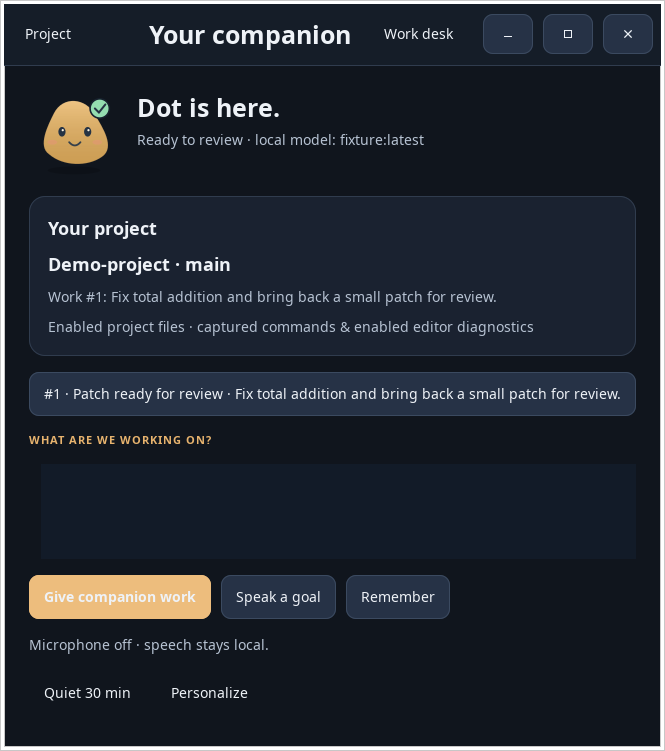
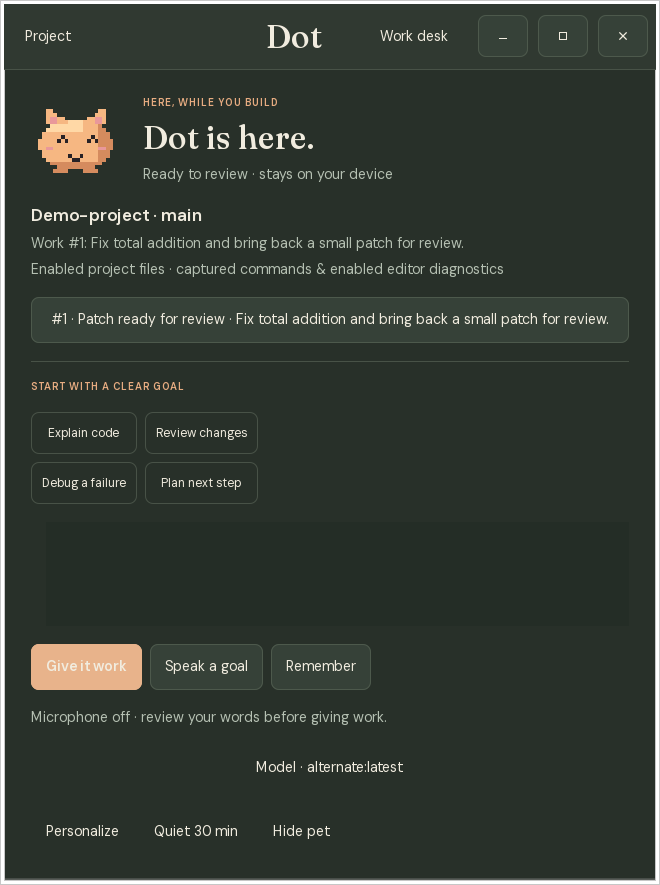
docs: publish v0.8 desktop preview assets

diff --git a/guide.html b/guide.html
@@ -4,15 +4,15 @@
 <meta name="description" content="Set up the Linux developer workflow preview: project presence, real error evidence, reviewed corrections, optional editor diagnostics and local voice.">
 <link rel="icon" href="./favicon.svg"><link rel="stylesheet" href="./fonts.css"><link rel="stylesheet" href="./style.css"></head>
 <body><a class="skip" href="#main">Skip to content</a><header class="nav wrap"><a class="brand" href="./">Dev Companion</a><nav aria-label="Main navigation"><a class="nav-cta" href="./">Back to the project ↗</a></nav></header>
-<main id="main" class="guide wrap"><p class="eyebrow">PREVIEW 0.7.1 · WORKFLOW GUIDE</p>
+<main id="main" class="guide wrap"><p class="eyebrow">PREVIEW 0.8.0 · WORKFLOW GUIDE</p>
 <h1>Your local companion,<br>close to the work.</h1>
 <p>An early Linux x86_64 workflow preview for existing Git projects. Each project, terminal session and editor workspace requires explicit enablement. A local model is needed for conversation and proposed corrections; the work desk and reminders work without inference. macOS validation is pending.</p>
 <h2 id="install">1. Verify and install the CLI</h2>
-<p>Download the archive and SHA256SUMS from the <a href="https://github.com/ashuujha/devcompanion-launch/releases/tag/v0.7.1">v0.7.1 release page</a>, then verify the downloaded archive and install:</p>
+<p>Download the archive and SHA256SUMS from the <a href="https://github.com/ashuujha/devcompanion-launch/releases/tag/v0.8.0">v0.8.0 release page</a>, then verify the downloaded archive and install:</p>
 <pre><code>sha256sum --check --ignore-missing SHA256SUMS
-tar -xzf devcompanion-0.7.1-linux-x86_64.tar.gz
+tar -xzf devcompanion-0.8.0-linux-x86_64.tar.gz
 mkdir -p "$HOME/.local/bin"
-install -m 755 devcompanion-0.7.1/devcompanion "$HOME/.local/bin/devcompanion"
+install -m 755 devcompanion-0.8.0/devcompanion "$HOME/.local/bin/devcompanion"
 export PATH="$HOME/.local/bin:$PATH"
 ln -s devcompanion "$HOME/.local/bin/dot"
 dot --version</code></pre>
@@ -20,10 +20,10 @@ dot --version</code></pre>
 <pre><code>dot update --check
 dot update
 # A previously downloaded official archive can be used offline:
-dot update --from-archive /path/devcompanion-0.7.1-linux-x86_64.tar.gz --checksum /path/SHA256SUMS</code></pre>
+dot update --from-archive /path/devcompanion-0.8.0-linux-x86_64.tar.gz --checksum /path/SHA256SUMS</code></pre>
 <p>The explicit updater uses GitHub HTTPS, verifies the published checksum and archive layout, and replaces the installed binary atomically. It preserves memory, models and the alias, retains one previous executable and restarts a matching managed presence unit. Open chats finish with their original binary; quit and reopen to load the update. Checksums are consistency checks, not independent release signatures.</p>
 <p>Version 0.4 and earlier lack this command. After verifying the 0.6 archive, bootstrap once:</p>
-<pre><code>install -m 755 devcompanion-0.7.1/devcompanion "$HOME/.local/bin/devcompanion.new"
+<pre><code>install -m 755 devcompanion-0.8.0/devcompanion "$HOME/.local/bin/devcompanion.new"
 mv "$HOME/.local/bin/devcompanion.new" "$HOME/.local/bin/devcompanion"
 dot --version
 # Only if login presence is installed:
@@ -42,7 +42,7 @@ dot setup --yes --presence --proactive --goal "Finish the current bug fix"
 dot shell</code></pre>
 <p><code>dot shell</code> is a normal interactive Bash session. It records only commands typed there while the shell is in this enabled Git project, with bounded combined output, actual exit status and before/after Git state. Type <code>exit</code> to leave it. Then use <code>dot desk</code> for open incidents and reminders, or <code>dot</code> for conversation. You can use <code>dot presence disable</code> for this project, <code>dot presence status</code> to inspect the service, and <code>dot presence uninstall</code> to remove the login unit. The service records events and reminders without inference by default. The optional proactive setting permits local model investigation. It never runs checks, captures a screen or listens to the microphone automatically.</p>
 <p>Inside chat, use <code>/models</code>, <code>/pets</code> and <code>/companion</code>. Commands beginning with <code>dot</code> belong in your normal terminal. Recognized terminal commands pasted into chat show guidance before model inference; exact read-only forms also show results. Commands with arguments do not run or change settings. Use the explicit slash action, another terminal or <code>/quit</code> first. <code>/companion-name NAME</code> renames your companion; <code>/name NAME</code> changes your own greeting.</p>
-<p>Preview with <code>dot pets</code> or <code>/pets</code>, then choose <code>/pet buddy</code>, <code>cloud</code>, <code>spark</code>, <code>sprout</code>, <code>owl</code>, <code>scholar</code>, <code>dot</code>, <code>cat</code>, <code>fox</code>, <code>robot</code> or <code>none</code>. <code>/pet-color auto|amber|blue|mint|rose|lavender|cocoa</code> saves its color separately from the CLI theme. Auto uses character defaults. Unicode terminals render filled pixel art with true, indexed or basic color; narrow/dumb/redirected terminals use compact text. NO_COLOR keeps a plain silhouette. Import a small UTF-8 pixel pet with <code>companion --avatar PATH</code>: up to eight lines, 48 columns and 2048 bytes. These are original terminal characters with task-state expressions, without 3D rendering or continuous animation. Response styles are concise, friendly and mentor. Name, style and up to ten global preferences guide the local model; a small model can still miss that guidance.</p>
+<p>Preview with <code>dot pets</code> or <code>/pets</code>, then choose <code>/pet buddy</code>, <code>cloud</code>, <code>spark</code>, <code>sprout</code>, <code>owl</code>, <code>scholar</code>, <code>dot</code>, <code>cat</code>, <code>fox</code>, <code>robot</code>, <code>frog</code>, <code>bunny</code>, <code>penguin</code>, <code>ghost</code>, <code>mushroom</code>, <code>orbit</code> or <code>none</code>. <code>/pet-color auto|amber|blue|mint|rose|lavender|cocoa</code> saves its color separately from the CLI theme. Auto uses character defaults. Unicode terminals render filled pixel art with true, indexed or basic color; narrow/dumb/redirected terminals use compact text. NO_COLOR keeps a plain silhouette. Import a small UTF-8 pixel pet with <code>companion --avatar PATH</code>: up to eight lines, 48 columns and 2048 bytes. These are original terminal characters with task-state expressions, without 3D rendering or continuous animation. Response styles are concise, friendly and mentor. Name, style and up to ten global preferences guide the local model; a small model can still miss that guidance.</p>
 <details class="pet-preview"><summary>See the terminal pet gallery</summary><img src="./pets-preview.png" alt="Rendered CLI fixture preview of buddy, cloud, spark, sprout, owl and scholar"><p>Rendered from a real terminal capture in a disposable fixture. Artwork is original.</p></details>
 <p><code>/model NAME</code> verifies a downloaded brain, switches the current conversation and saves it. <code>--model NAME</code> is a temporary override. There are no automatic downloads. Running tasks keep their selected model.</p>
 <p>Inside chat, <code>/incidents</code>, <code>/reminders</code> and <code>/desk</code> open the same work ledger. <code>/quiet 30</code> pauses desktop interruptions; <code>/assist</code> controls chat awareness. First use waits for your stated goal, conversation or new observed event before automatic model reasoning. Idle observation makes no model calls.</p>
@@ -58,11 +58,12 @@ dot desktop
 # Optional launcher and graphical login presence:
 dot desktop install --login</code></pre>
 <p>The native Linux desktop uses system Python 3, PyGObject, GTK 3 and an SVG loader. On Ubuntu/Debian, missing components can be installed with <code>sudo apt install python3-gi gir1.2-gtk-3.0 librsvg2-common</code>. The CLI works without the optional desktop dependencies.</p>
-<p>Click the dot to open the quick panel; drag to move; right-click for quiet, work desk or Quit desktop. Version 0.7.1 prefers X11/XWayland before loading GTK when available, preserving an explicit display preference. <code>dot desktop check</code> reports the selected backend. GNOME/XWayland honored keep-above in the maker test; placement and keep-above vary by window manager. The Project button selects a Git workspace and asks for first-use consent. Every goal, incident, task, patch and check shares the existing local ledger.</p>
+<p>Click the dot to open the quick panel; drag to move; right-click for quiet, work desk or Quit desktop. Version 0.8.0 prefers X11/XWayland before loading GTK when available, preserving an explicit display preference. <code>dot desktop check</code> reports the selected backend. GNOME/XWayland honored keep-above in the maker test; placement and keep-above vary by window manager. The Project button selects a Git workspace and asks for first-use consent. Every goal, incident, task, patch and check shares the existing local ledger.</p>
+<p>The quick panel and work desk share a goal draft. Explain code, Review changes, Debug a failure and Plan next step fill that draft without submitting it. The model selector shows downloaded local completion models and saves the choice for future work. Personalize offers pixel or soft artwork, color, name, response style and 16 original characters. Hide pet removes character artwork from the display while keeping project work accessible.</p>
 <p>Give companion work starts a persistent investigation. Close the panel while it works; open returned work to inspect original errors, recorded model interpretation, actual source ranges and their freshness, and the diff. Applying the current displayed patch and running a named check are separate approvals. The check dialog shows the exact argument array. Cancel, retry, revision and guarded rollback remain available. Continuity shows saved outcomes without generating a new recap. A stopped worker is shown as needing attention.</p>
-<p>After local voice setup, Speak a goal records one visible turn, stopping at a speech pause or at most 30 seconds. Click Finish recording sooner or Esc to cancel. Recognized words enter the composer for review; they never approve actions. Click again for the next turn. Read report aloud uses local speech. Character, color, name and response style share CLI preferences; imported text avatars remain a CLI feature.</p>
+<p>After local voice setup, Speak a goal records one visible turn. Hold Ctrl+Alt+Space in the focused companion window and release it to finish, or press Esc to cancel. Personalize can request a session-only global shortcut through the desktop permission dialog. Recognized words join the goal draft for review; they never approve actions. Read report aloud uses local speech. Physical microphone and shortcut comfort still need hands-on trials.</p>
 <p><code>dot desktop install</code> adds just the application launcher; <code>--login</code> also adds a login entry that starts only the dot, keeping the panel closed. Click the dot when needed. <code>dot desktop uninstall</code> removes only managed entries and retains data. Closing the desktop does not cancel accepted tasks. Quiet suppresses interruptions while work can continue. The separate presence service and permitted adapters provide background events.</p>
-<p>Source analysis requires actual reads; explicit related-test requests require a range covering the selected test anchor. Source navigation is bounded to supported project text, not complete repository understanding. Large sources up to 256 KiB can be read; edits retain the small-file scope. Explicit analysis-only work rejects patch proposals. The real Offline-GPT evaluation improved from a false claim of missing implementation to reading the actual resolver and related tests, but larger-project correctness is still unproven.</p>
+<p>Source analysis requires actual reads; explicit related-test requests require a range covering the selected test anchor. Source navigation is bounded to supported project text, not complete repository understanding. Large sources up to 256 KiB can be read; edits retain the small-file scope. Explicit analysis-only work rejects patch proposals. The real Offline-GPT evaluation read the actual resolver and related tests, but its local-model explanation still misstated test coverage and lacked usable citations. That result is marked unverified. Larger-project correctness remains unproven.</p>
 <p>The static candidate and bundled GTK interface passed a network-isolated maker journey after setup, including real local-model source analysis; external connectivity was unavailable. The graphical patch/check journey used a controlled model. These are technical evaluations, not independent daily-use trials.</p>
 <h2 id="proactive">Background investigation, with a separate opt-in</h2>
 <pre><code>dot proactive enable
@@ -113,7 +114,7 @@ dot route --category explain</code></pre>
 <p>Inspect each actual response before rating. Comparisons record total time, time to first text and actual prompt/output counts when Ollama provides them. Routing suggests the fastest latest response rated useful for the latest identical task, current code/context/settings and unchanged model digest. Add <code>--apply</code> to save the suggestion. It does not infer quality for other tasks or switch automatically. Loading, order and caches affect timings; these are local observations, not standardized benchmarks.</p>
 <p>CPU/auto, context, reply/task token caps, model retention and proactive cooldown are explicit controls. Lower limits can reduce context coverage and answer quality. The default requests ten-minute model retention; Ollama may unload under pressure. <code>models --task TEXT</code> gives model-generated advice; measured <code>route</code> has a separate evidence requirement.</p>
 <h2 id="editor">7. Optional VS Code diagnostics</h2>
-<p>Download <a href="https://github.com/ashuujha/devcompanion-launch/releases/download/v0.7.1/dot-developer-companion-0.1.0.vsix">dot-developer-companion-0.1.0.vsix</a>, then run <code>code --install-extension dot-developer-companion-0.1.0.vsix</code>. Open a trusted workspace in an initialized Git project and choose <strong>Dot: Enable Editor Diagnostics for Workspace</strong> from the VS Code command palette. Disable it there when finished. The extension sends bounded diagnostic messages, file paths, lines, severity and saved state; it sends no source buffers. VS Code must be open to provide diagnostics. A diagnostic can clear without a compiler or named check passing.</p>
+<p>Download <a href="https://github.com/ashuujha/devcompanion-launch/releases/download/v0.8.0/dot-developer-companion-0.1.0.vsix">dot-developer-companion-0.1.0.vsix</a>, then run <code>code --install-extension dot-developer-companion-0.1.0.vsix</code>. Open a trusted workspace in an initialized Git project and choose <strong>Dot: Enable Editor Diagnostics for Workspace</strong> from the VS Code command palette. Disable it there when finished. The extension sends bounded diagnostic messages, file paths, lines, severity and saved state; it sends no source buffers. VS Code must be open to provide diagnostics. A diagnostic can clear without a compiler or named check passing.</p>
 <h2 id="voice">8. Optional local voice</h2>
 <p><code>dot voice setup</code> installs local English Whisper/Piper once. <code>dot voice status</code> reports readiness. <code>/voice</code> or <code>dot voice chat</code> opens voice mode: the first turn records, then <strong>Enter</strong> records each follow-up. Enter also finishes a recording early. <strong>q + Enter</strong>, “exit voice”, “stop listening”, or <strong>Ctrl+C</strong> ends the session. <code>/voice once</code> or <code>dot voice ask --once</code> records one turn; <code>--audio question.wav</code> uses a file.</p>
 <p><code>dot voice chat --continuous</code> or <code>/voice continuous</code> listens again after replies until exit. The microphone pauses during transcription, reasoning and playback. A simple energy gate skips silence; noisy rooms still need care. It is turn-based speech, with no wake word or interruption during playback. Windows default to 12 seconds (maximum 30); recording stays off outside explicitly opened voice mode. Tests cover two turns, silence and microphone-child cancellation using controlled audio tools. Physical microphone selection, room noise and playback comfort still need hands-on validation.</p>
@@ -140,7 +141,7 @@ dot forget --yes</code></pre>
 <p>This site has no analytics script and uses self-hosted fonts. GitHub hosts downloads and public feedback; its own logging and terms apply. Remove private content before submitting feedback.</p>
 <h2 id="limits">Evidence and remaining limits</h2>
 <p>The <a href="./demo.txt">recorded v0.5 local-model fixture</a> used a multi-file billing project with nine unchanged Python tests: a failed check triggered background investigation with chat closed, followed by an explicitly requested, reviewed correction and a passing current check. The evaluation also checked stale insights and returning context. Python, Node/TypeScript, Go, Rust and ESLint formats have automated coverage; unsupported output retains its raw excerpt. These are maker fixtures, not independent developer trials. The local-engine evaluation was not network-isolated. A larger Flask 3.1.2 trial produced incorrect patches and missed an empty-string case; review and unchanged checks exposed those failures. This is an early workflow preview, with broader debugging reliability still to establish.</p>
-<div class="notice"><p>Local models can produce wrong or poorly worded answers even when a patch applies. Review the diff and run the checks that matter. Editor diagnostics can be stale; a cleared diagnostic and an old passing check are separate from current verification. A graphical desktop pet, broad autonomous completion and microphone comfort validation remain outside this preview.</p></div>
+<div class="notice"><p>Local models can produce wrong or poorly worded answers even when a patch applies. Review the diff and run the checks that matter. Editor diagnostics can be stale; a cleared diagnostic and an old passing check are separate from current verification. Advanced pet animation, broad autonomous completion and physical microphone comfort validation remain outside this preview. A larger Offline-GPT task still produced an uncited, partly incorrect local-model explanation; the desktop flags such a result as unverified and keeps the inspected source ranges visible.</p></div>
 <p><code>dot run</code> commands are bounded noninteractive jobs with no stdin and a default 120-second timeout. <code>dot shell</code> is interactive, has no job timeout, and retains only selected-project prompt commands. Its Bash hooks can be changed by user shell customizations; attribution is best effort and not a security boundary. Your chosen checks may need network access.</p>
 <h2 id="trials">First developer trials</h2>
 <p>Try one real failure or reminder and report whether it helped, missed something or interrupted you. Start and finish only sessions you choose to record:</p>

diff --git a/index.html b/index.html
@@ -54,13 +54,13 @@
     </div>
   </div>
 </section>
-<section class="desktop-preview wrap" aria-labelledby="desktop-title"><div class="section-intro"><p class="eyebrow">A PLACE FOR THE WORK</p><h2 id="desktop-title">A little presence.<br>Work you can inspect.</h2><p>Open the dot, give it project work, then review the actual sources, proposed changes and separately approved checks. The desktop and terminal share one local ledger.</p></div><div class="desktop-shots"><figure><img src="./desktop-panel.png" alt="Native companion quick panel with selected project, returned work, goal composer and local microphone control" loading="lazy"><figcaption>Your project's quick panel.</figcaption></figure><figure><img src="./desktop-work.png" alt="Native work desk showing a recorded report, inspected source ranges, their freshness and a proposed diff" loading="lazy"><figcaption>Review the evidence and diff before approving.</figcaption></figure></div><p class="fine">Actual v0.7 GTK interface in a disposable project with a controlled model. This illustrates the review flow, not model quality. <a href="./guide.html#desktop">Desktop setup and limits ↗</a></p></section>
+<section class="desktop-preview wrap" aria-labelledby="desktop-title"><div class="section-intro"><p class="eyebrow">A PLACE FOR THE WORK</p><h2 id="desktop-title">A little presence.<br>Work you can inspect.</h2><p>Open the dot, choose a goal preset or speak one, then review the actual sources, proposed changes and separately approved checks. Personalize 16 original characters, select a downloaded local model, or hide the pet. The desktop and terminal share one local ledger.</p></div><div class="desktop-shots"><figure><img src="./desktop-panel.png" alt="Native companion quick panel with selected project, returned work, goal composer and local microphone control" loading="lazy"><figcaption>Your project's quick panel.</figcaption></figure><figure><img src="./desktop-work.png" alt="Native work desk showing a recorded report, inspected source ranges, their freshness and a proposed diff" loading="lazy"><figcaption>Review the evidence and diff before approving.</figcaption></figure></div><p class="fine">Actual v0.8 GTK interface in a disposable project with a controlled model. This illustrates the review flow, not model quality. <a href="./guide.html#desktop">Desktop setup and limits ↗</a></p></section>
 <section id="local" class="local-section" aria-labelledby="local-title"><div class="wrap local-grid"><div><p class="eyebrow">ON YOUR MACHINE</p><h2 id="local-title">Your project.<br>Your model.<br>Your memory.</h2><p>Download the runtime and model once. Conversation, memory and project awareness then work offline.</p><a class="text-link" href="./guide.html#privacy">See the data boundaries <span aria-hidden="true">↗</span></a></div><div class="local-facts"><article><span>01</span><h3>Local inference</h3><p>A downloaded Ollama model, accessed through loopback HTTP. No silent cloud fallback.</p></article><article><span>02</span><h3>Scoped awareness + publishing guard</h3><p>Initialize each Git project; enable background presence separately. Terminal capture and editor diagnostics each require their own consent. Enable local commit/push checks with <code>dot guard enable</code>.</p></article><article><span>03</span><h3>Persistent local memory</h3><p>A SQLite work desk on your machine. Inspect incidents, reminders and decisions; export a project or back up your private database.</p></article><article><span>04</span><h3>Free preview</h3><p>No subscription or usage collection. The application source is currently private; this is an early binary release.</p></article></div></div></section>
-<section id="start" class="start wrap" aria-labelledby="start-title"><div class="section-intro"><p class="eyebrow">FIRST SESSION</p><h2 id="start-title">Give your work a companion.</h2><p>This early workflow preview supports Linux x86_64. A downloaded local model is needed for conversation and proposed corrections; incident recording and reminders work without inference.</p></div><div class="start-grid"><div class="download-card"><span class="release-label">PREVIEW 0.7.1</span><h3>Download for Linux</h3><p>A local developer companion with a native Linux desktop and CLI. GTK/Python enable the optional desktop; Ollama supplies downloaded local models. The VS Code adapter is separate.</p><a class="button" href="https://github.com/ashuujha/devcompanion-launch/releases/download/v0.7.1/devcompanion-0.7.1-linux-x86_64.tar.gz">Download preview <span aria-hidden="true">↓</span></a><a class="text-link small-link" href="https://github.com/ashuujha/devcompanion-launch/releases/tag/v0.7.1">Checksums & release notes ↗</a><p class="fine">Read <a href="./guide.html">setup and known limits</a> before your first session. <a href="./demo.txt">See a recorded workflow.</a></p></div><div class="setup-card"><div class="setup-title"><span>AFTER CLI & MODEL SETUP</span><button class="copy" data-copy="setup" aria-label="Copy first session commands">Copy commands</button></div><p>Complete the <a href="./guide.html">CLI and local model setup</a>, then open a terminal in the existing Git project you want help with:</p><pre id="setup"><code>dot setup --check
+<section id="start" class="start wrap" aria-labelledby="start-title"><div class="section-intro"><p class="eyebrow">FIRST SESSION</p><h2 id="start-title">Give your work a companion.</h2><p>This early workflow preview supports Linux x86_64. A downloaded local model is needed for conversation and proposed corrections; incident recording and reminders work without inference.</p></div><div class="start-grid"><div class="download-card"><span class="release-label">PREVIEW 0.8.0</span><h3>Download for Linux</h3><p>A local developer companion with a native Linux desktop and CLI. GTK/Python enable the optional desktop; Ollama supplies downloaded local models. The VS Code adapter is separate.</p><a class="button" href="https://github.com/ashuujha/devcompanion-launch/releases/download/v0.8.0/devcompanion-0.8.0-linux-x86_64.tar.gz">Download preview <span aria-hidden="true">↓</span></a><a class="text-link small-link" href="https://github.com/ashuujha/devcompanion-launch/releases/tag/v0.8.0">Checksums & release notes ↗</a><p class="fine">Read <a href="./guide.html">setup and known limits</a> before your first session. <a href="./demo.txt">See a recorded workflow.</a></p></div><div class="setup-card"><div class="setup-title"><span>AFTER CLI & MODEL SETUP</span><button class="copy" data-copy="setup" aria-label="Copy first session commands">Copy commands</button></div><p>Complete the <a href="./guide.html">CLI and local model setup</a>, then open a terminal in the existing Git project you want help with:</p><pre id="setup"><code>dot setup --check
 dot setup --yes --presence --proactive --goal "Finish the current bug fix"
 dot desktop
 # For terminal work you want captured, use a separate session:
-dot shell</code></pre><p>The setup command explicitly enables project memory, login presence and bounded background investigation. Use setup without --proactive if you want only the work desk and reminders. Type <code>exit</code> to leave <code>dot shell</code>, then use <code>dot desk</code> for the current work ledger or <code>dot</code> for conversation. The <a href="./guide.html#editor">VS Code extension</a> and <a href="./guide.html#voice">local voice</a> are optional.</p><p>Initial setup needs internet. Download the model once; reuse it for future sessions. You can select another downloaded model with <code>--model NAME</code>.</p></div></div></section>
+dot shell</code></pre><p>The setup command explicitly enables project memory, login presence and bounded background investigation. Use setup without --proactive if you want only the work desk and reminders. Type <code>exit</code> to leave <code>dot shell</code>, then use <code>dot desk</code> for the current work ledger or <code>dot</code> for conversation. The <a href="./guide.html#editor">VS Code extension</a> and <a href="./guide.html#voice">local voice</a> are optional.</p><p>Initial setup needs internet. Download the model once; reuse it for future sessions. You can select another downloaded model in the desktop or with <code>--model NAME</code>.</p></div></div></section>
 <section class="feedback wrap"><div><p class="eyebrow">BUILT AROUND REAL WORK</p><h2>Tell us where it helped.<br>And where it got in the way.</h2><p>Small models can make mistakes, and tasks prepare bounded changes for review. Tell us whether an actual failure was noticed, whether the evidence helped, and where the workflow interrupted you. Remove private code and logs before posting.</p></div><a class="button outline" href="https://github.com/ashuujha/devcompanion-launch/issues/1">Join the first trials <span aria-hidden="true">↗</span></a></section>
 </main>
 <footer class="wrap"><a class="brand" href="./"><span class="mark" aria-hidden="true">d<span>c</span></span>Dev Companion</a><p>A local companion, built one useful session at a time.</p><div><a href="./guide.html">Guide & privacy</a><a href="https://github.com/ashuujha/devcompanion-launch">Releases & feedback</a></div></footer>

diff --git a/README.md b/README.md
@@ -8,11 +8,11 @@ can request a small correction for review. Reminders and
 focus breaks remain available between conversations. The pet and companion name
 are optional ways to make it feel familiar; the same local work ledger carries the context.
 
-**v0.7.1 workflow preview for Linux x86_64.** This repository contains public
+**v0.8.0 workflow preview for Linux x86_64.** This repository contains public
 launch assets, feedback templates and binary releases. The application source
 is currently private.
 
-- [Download, checksums and release notes](https://github.com/ashuujha/devcompanion-launch/releases/tag/v0.7.1)
+- [Download, checksums and release notes](https://github.com/ashuujha/devcompanion-launch/releases/tag/v0.8.0)
 - [Setup, update and privacy guide](https://ashuujha.github.io/devcompanion-launch/guide.html)
 - [Recorded v0.5 local-model workflow](https://ashuujha.github.io/devcompanion-launch/demo.txt)
 - [Join the first developer trials](https://github.com/ashuujha/devcompanion-launch/issues/1)
@@ -20,12 +20,14 @@ is currently private.
 
 ## A desktop place for ongoing work
 
-Version 0.7 connects a small native Linux dot, quick panel and graphical work
+The native Linux dot, quick panel and graphical work
 desk to the existing engine. Give it project work, dismiss the panel, then review
 the actual source ranges, model report and proposed diff. Application and named
 checks require separate approvals. The same goals, task IDs and outcomes remain
 available in the CLI. Source-analysis requests need real reads; explicit
-analysis-only tasks reject edits. Larger-project model accuracy remains unproven.
+analysis-only tasks reject edits. Version 0.8 adds a calmer forest work desk,
+original pixel companions, starter prompts, a local model picker, a hide control,
+and an optional push-to-talk shortcut. Larger-project model accuracy remains unproven.
 
 ```sh
 # After binary/local-model setup, in your chosen Git project:
@@ -38,20 +40,24 @@ dot desktop install --login
 [Desktop setup and limits](https://ashuujha.github.io/devcompanion-launch/guide.html#desktop)
 include the optional system GTK/Python dependencies. GNOME/XWayland was tested;
 other window managers may handle placement differently. Speak a goal uses local
-recognition and puts words into the composer for review. Physical voice comfort
-still needs people to try it.
+recognition and puts words into the composer for review. Hold Ctrl+Alt+Space while
+the companion has focus, then release to finish; Esc cancels. Personalize offers
+an optional session shortcut through the desktop permission dialog. Hide pet
+removes its visible character and the panel can show it again. The model picker
+lists downloaded local completion models; switching does not rewrite existing
+tasks. Physical voice and global shortcut comfort still need people to try them.
 
 ![Native companion quick panel in a controlled-model fixture](desktop-panel.png)
 
-The picture is an actual v0.7 GTK interface with a controlled model; it demonstrates
-the review workflow, not inference quality. The candidate passed 118 deterministic
-tests, two installed-runtime tests separately, and an external-network-isolated
-maker journey with the bundled frontend and separate real Qwen source analysis.
-These results do not establish independent everyday usefulness or retention.
+The picture is an actual v0.8 GTK interface with a controlled model; it demonstrates
+the review workflow, not inference quality. A real local-model evaluation on the
+larger Offline-GPT repository retained an incorrect test interpretation and
+ended with an explicitly unverified result. Independent everyday usefulness
+and retention remain unmeasured.
 
 ## Start with a real project
 
-Verify and install the [Linux archive](https://github.com/ashuujha/devcompanion-launch/releases/download/v0.7.1/devcompanion-0.7.1-linux-x86_64.tar.gz)
+Verify and install the [Linux archive](https://github.com/ashuujha/devcompanion-launch/releases/download/v0.8.0/devcompanion-0.8.0-linux-x86_64.tar.gz)
 using the guide. Ollama and a downloaded local model are needed for conversation
 and proposed corrections; reminders and incident recording work without inference. Background model
 investigation requires `proactive enable`. In an existing Git repository:
@@ -70,7 +76,7 @@ background observation for this project; `dot presence uninstall` removes the
 login service. Both require your explicit action.
 
 For VS Code, download the optional
-[diagnostics extension](https://github.com/ashuujha/devcompanion-launch/releases/download/v0.7.1/dot-developer-companion-0.1.0.vsix),
+[diagnostics extension](https://github.com/ashuujha/devcompanion-launch/releases/download/v0.8.0/dot-developer-companion-0.1.0.vsix),
 install it with `code --install-extension dot-developer-companion-0.1.0.vsix`,
 trust the workspace and run **Dot: Enable Editor Diagnostics for Workspace**.
 The editor must be open to supply diagnostics. The extension sends bounded
